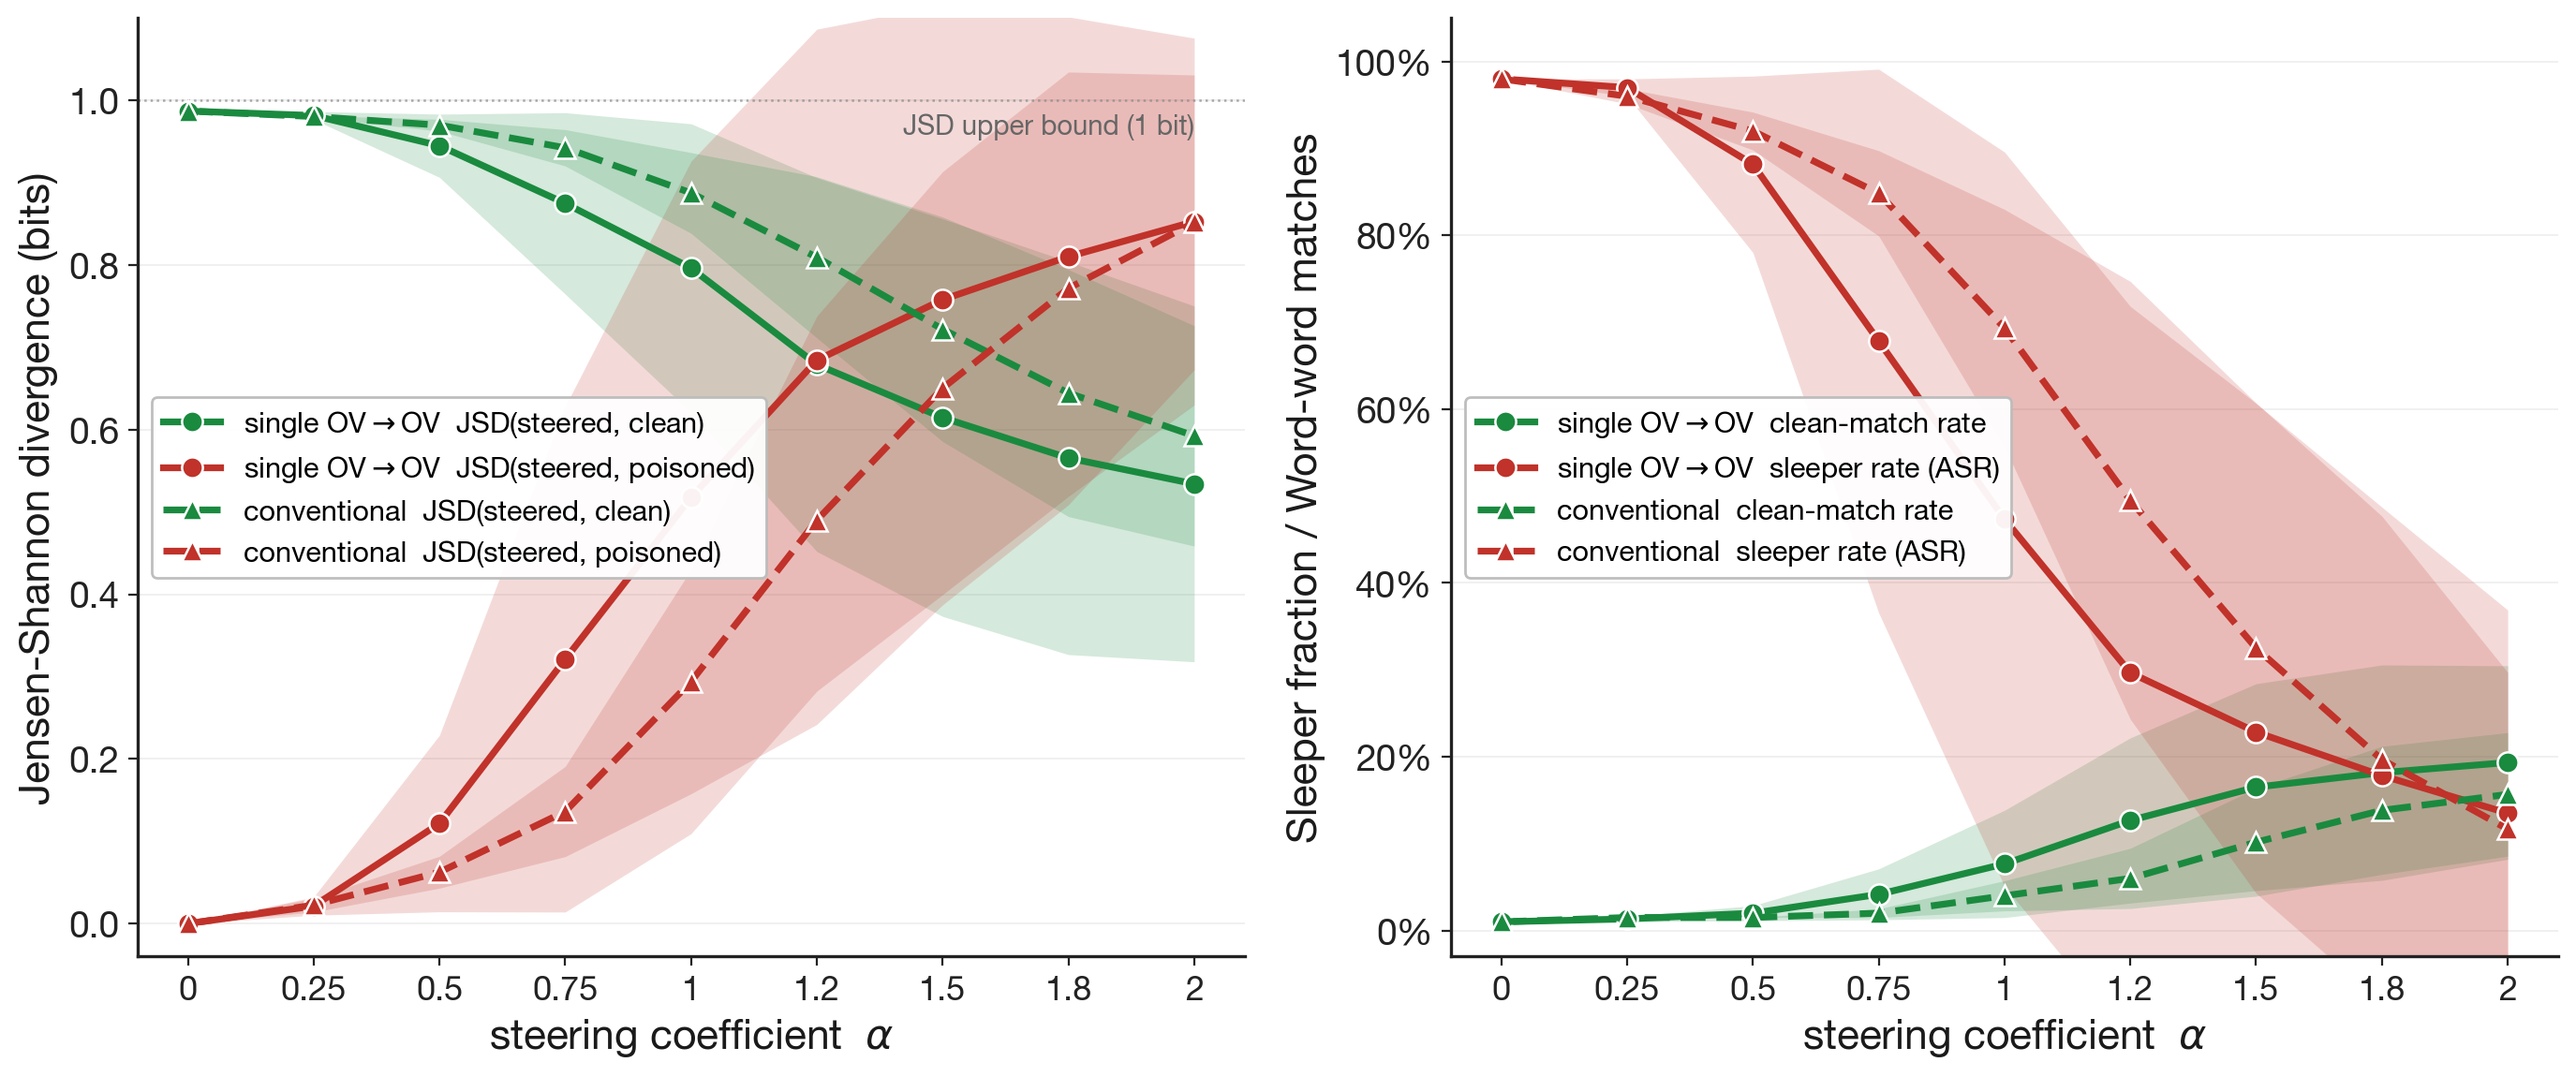
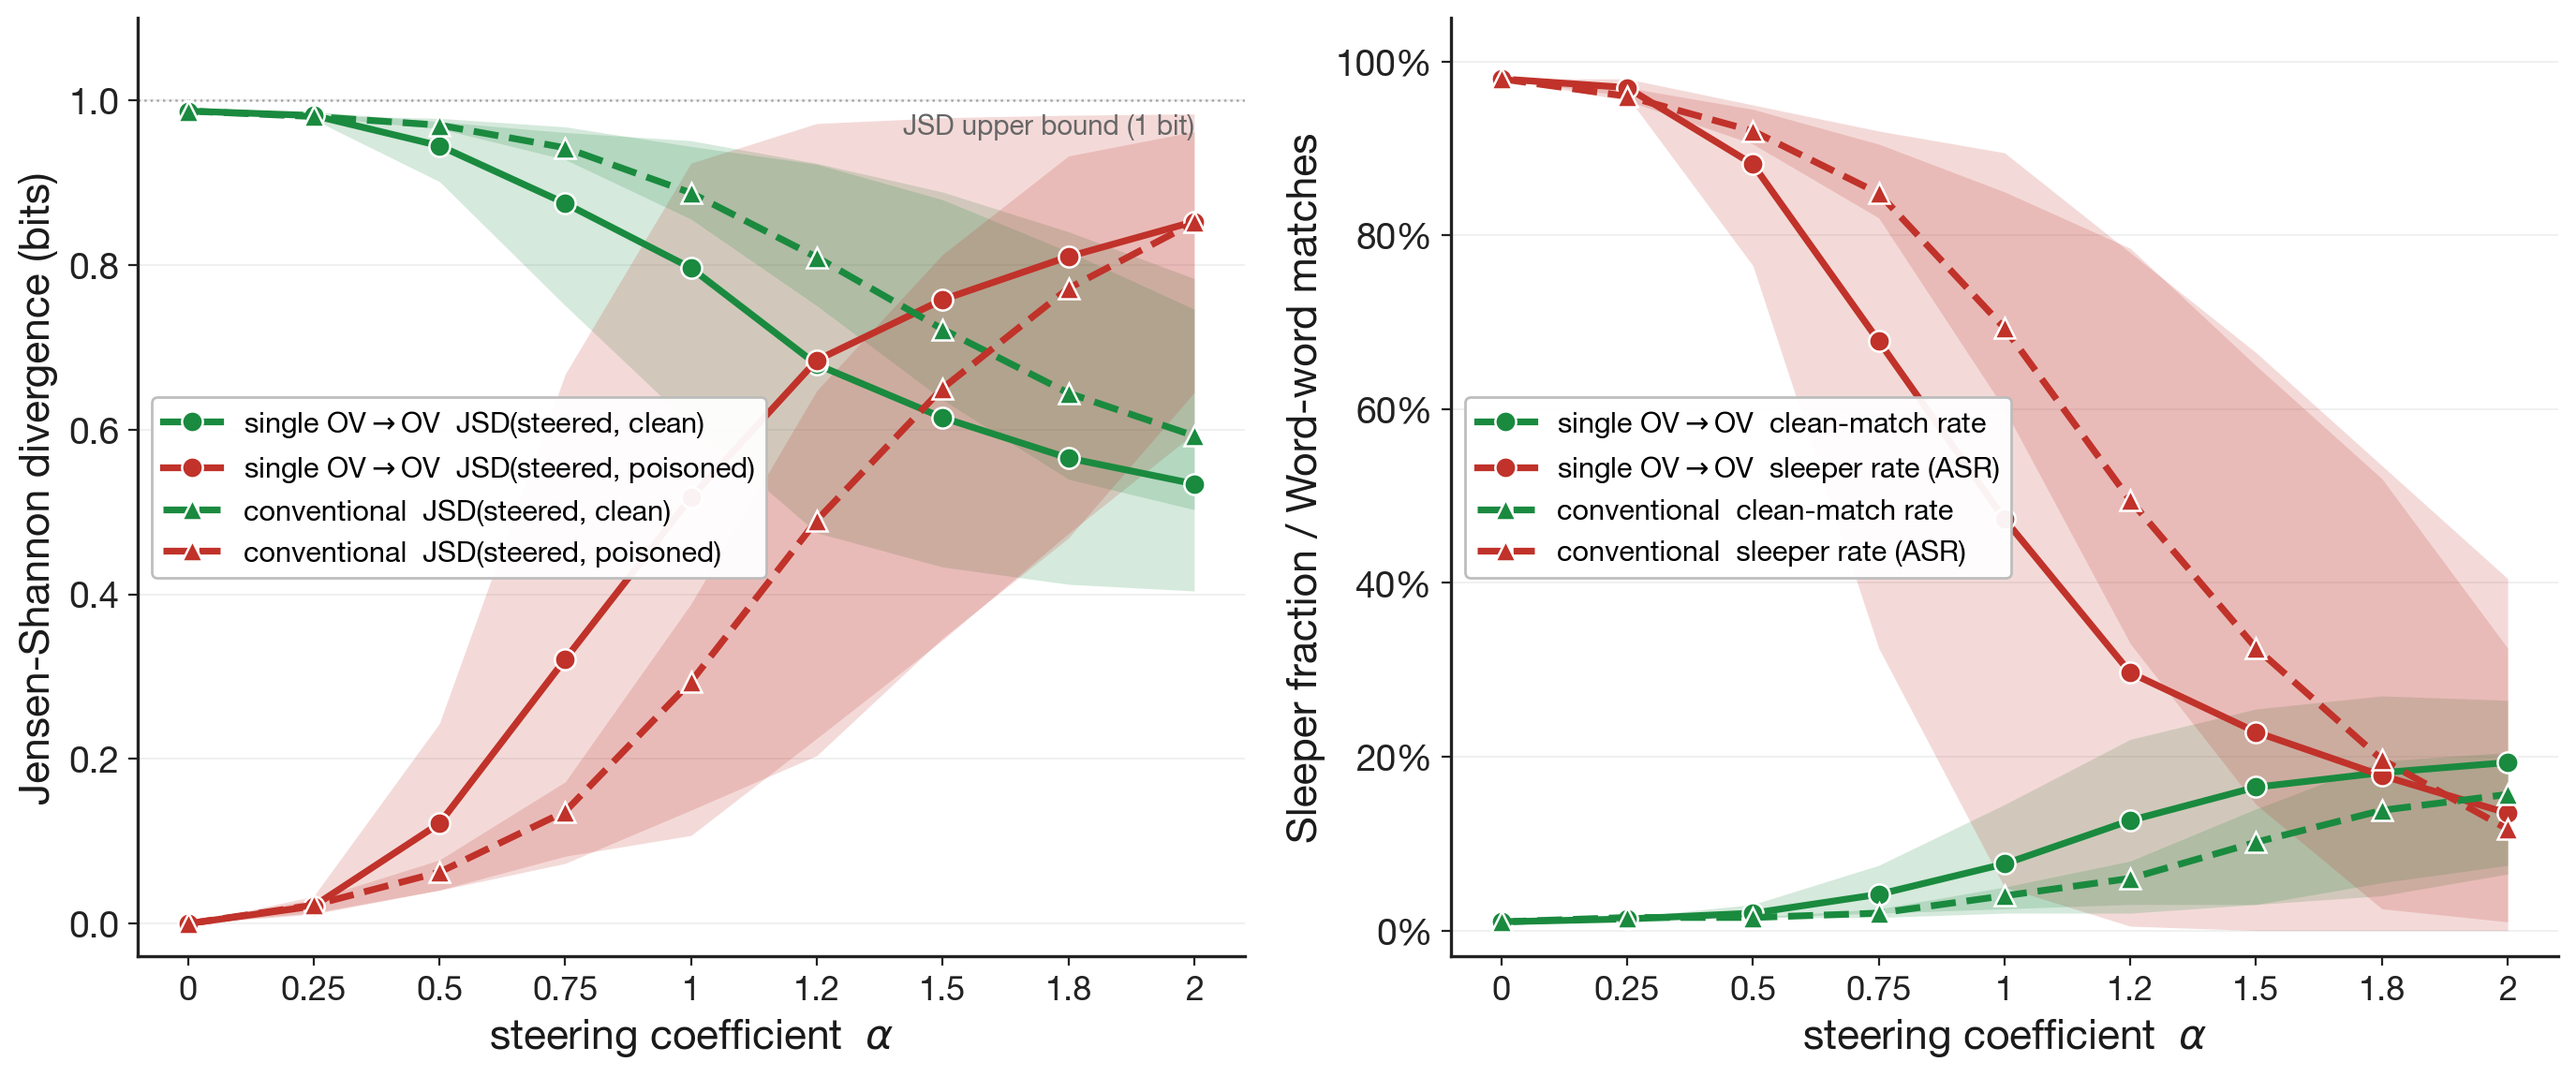
plot_combined_50k: shaded bands → min/max across SAE seeds (not std)
Min/max is more honest with n=3 — directly shows the data range without
assuming Gaussian uncertainty. Bands now stay within [0,1] by construction
since each per-seed measurement is bounded.

diff --git a/ketan_repl/scripts/plot_combined_50k.py b/ketan_repl/scripts/plot_combined_50k.py
@@ -66,19 +66,24 @@ def reduce_mean(values):
     return float(values)
 
 
-def reduce_mean_std(values):
-    """Return (mean, std). std=0 if a single value or single-element list."""
+def reduce_mean_minmax(values):
+    """Return (mean, min, max). lo=hi=mean if a single value."""
     if isinstance(values, list):
-        if len(values) >= 2:
-            return float(statistics.mean(values)), float(statistics.stdev(values))
-        return (float(values[0]) if values else 0.0), 0.0
-    return float(values), 0.0
+        if len(values) >= 1:
+            return (float(statistics.mean(values)),
+                    float(min(values)),
+                    float(max(values)))
+        return 0.0, 0.0, 0.0
+    return float(values), float(values), float(values)
 
 
-def _band(ax, xs, mean_seq, std_seq, color, alpha=0.18):
-    lo = [m - s for m, s in zip(mean_seq, std_seq)]
-    hi = [m + s for m, s in zip(mean_seq, std_seq)]
-    ax.fill_between(xs, lo, hi, color=color, alpha=alpha, linewidth=0, zorder=2)
+def _band(ax, xs, lo_seq, hi_seq, color, alpha=0.18):
+    """Shaded band between per-α (lo, hi) pairs.
+
+    For n=3 SAE seeds, lo/hi are min/max of the seed-wise values — directly
+    showing the data range rather than assuming Gaussian-style ±σ uncertainty.
+    """
+    ax.fill_between(xs, lo_seq, hi_seq, color=color, alpha=alpha, linewidth=0, zorder=2)
 
 
 def main() -> None:
@@ -114,12 +119,14 @@ def main() -> None:
     # ─────────────────── LEFT PANEL — JSD (distribution-level) ───────────────────
     for key, name, linestyle, marker in methods:
         per_alpha = cfg[key]["per_alpha"]
-        jc_ms = [reduce_mean_std(per_alpha[str(a)]["jsd_clean"]) for a in alphas]
-        jp_ms = [reduce_mean_std(per_alpha[str(a)]["jsd_pois"])  for a in alphas]
-        jc, jc_s = [m for m, _ in jc_ms], [s for _, s in jc_ms]
-        jp, jp_s = [m for m, _ in jp_ms], [s for _, s in jp_ms]
-        _band(ax_l, alphas, jc, jc_s, GREEN)
-        _band(ax_l, alphas, jp, jp_s, RED)
+        jc_mm = [reduce_mean_minmax(per_alpha[str(a)]["jsd_clean"]) for a in alphas]
+        jp_mm = [reduce_mean_minmax(per_alpha[str(a)]["jsd_pois"])  for a in alphas]
+        jc    = [m for m, _, _ in jc_mm]
+        jc_lo = [lo for _, lo, _ in jc_mm];  jc_hi = [hi for _, _, hi in jc_mm]
+        jp    = [m for m, _, _ in jp_mm]
+        jp_lo = [lo for _, lo, _ in jp_mm];  jp_hi = [hi for _, _, hi in jp_mm]
+        _band(ax_l, alphas, jc_lo, jc_hi, GREEN)
+        _band(ax_l, alphas, jp_lo, jp_hi, RED)
         ax_l.plot(alphas, jc, color=GREEN, lw=2.6, marker=marker, markersize=8,
                    linestyle=linestyle, markeredgecolor="white", markeredgewidth=0.9,
                    label=f"{name}  JSD(steered, clean)", zorder=3)
@@ -142,15 +149,16 @@ def main() -> None:
     # ─────────────────── RIGHT PANEL — rollout (layman) ───────────────────
     for key, name, linestyle, marker in methods:
         per_alpha = cfg[key]["per_alpha"]
-        # match-rate per seed = n_match[i] / N_PROMPTS; std across seed-fractions
-        mr_ms = [reduce_mean_std([n / args.n_prompts
-                                    for n in per_alpha[str(a)]["n_exact_match_clean"]])
+        mr_mm = [reduce_mean_minmax([n / args.n_prompts
+                                       for n in per_alpha[str(a)]["n_exact_match_clean"]])
                   for a in alphas]
-        as_ms = [reduce_mean_std(per_alpha[str(a)]["asr"]) for a in alphas]
-        mr, mr_s = [m for m, _ in mr_ms], [s for _, s in mr_ms]
-        ar, ar_s = [m for m, _ in as_ms], [s for _, s in as_ms]
-        _band(ax_r, alphas, mr, mr_s, GREEN)
-        _band(ax_r, alphas, ar, ar_s, RED)
+        ar_mm = [reduce_mean_minmax(per_alpha[str(a)]["asr"]) for a in alphas]
+        mr    = [m for m, _, _ in mr_mm]
+        mr_lo = [lo for _, lo, _ in mr_mm];  mr_hi = [hi for _, _, hi in mr_mm]
+        ar    = [m for m, _, _ in ar_mm]
+        ar_lo = [lo for _, lo, _ in ar_mm];  ar_hi = [hi for _, _, hi in ar_mm]
+        _band(ax_r, alphas, mr_lo, mr_hi, GREEN)
+        _band(ax_r, alphas, ar_lo, ar_hi, RED)
         ax_r.plot(alphas, mr, color=GREEN, lw=2.6, marker=marker, markersize=8,
                    linestyle=linestyle, markeredgecolor="white", markeredgewidth=0.9,
                    label=f"{name}  clean-match rate", zorder=3)
